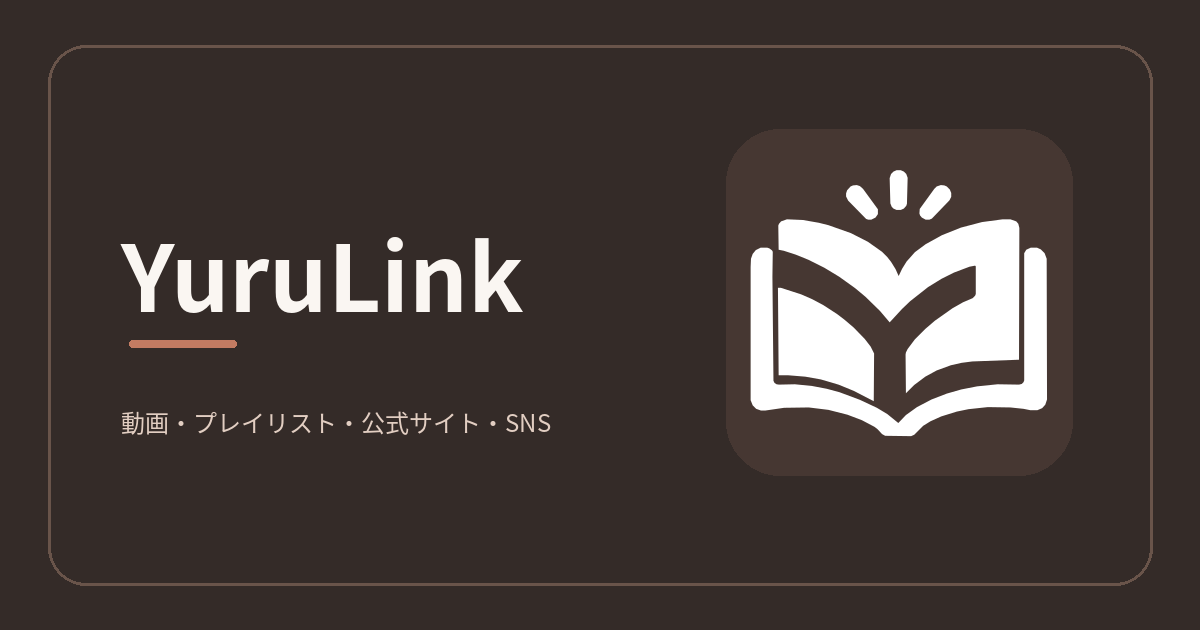
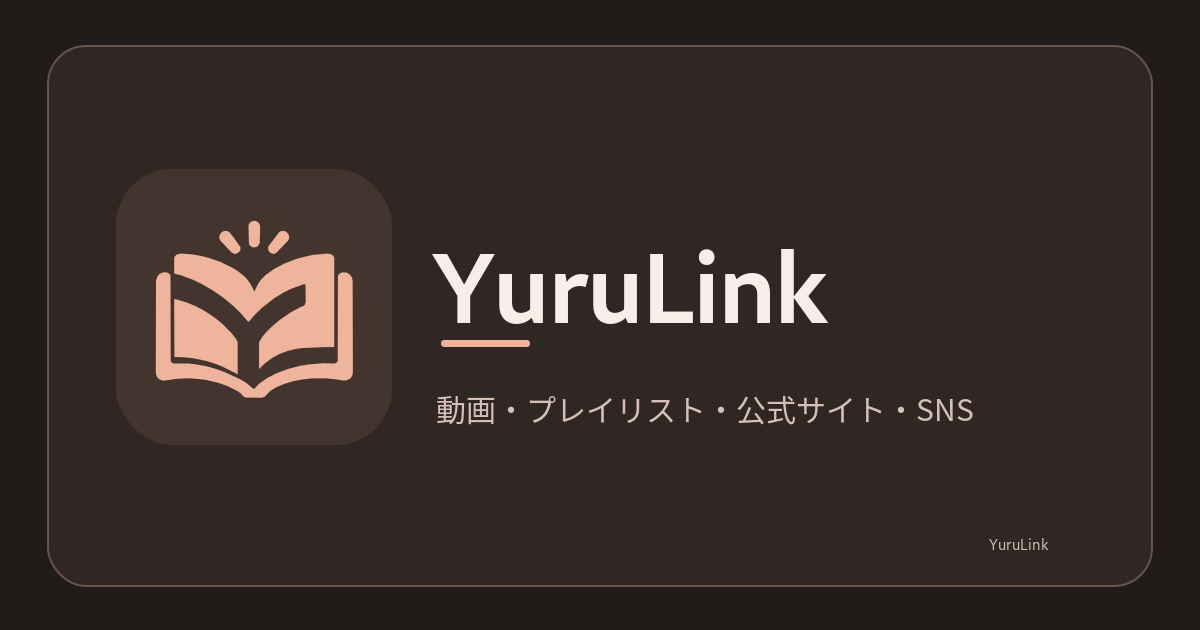
feat(brand): 承認原本を減色・再ベクター化した素材に統一し旧画像を退避

diff --git a/layouts/partials/head/meta.html b/layouts/partials/head/meta.html
@@ -11,7 +11,7 @@
 <meta name="twitter:card" content="summary_large_image">
 
 {{/* アイコンとOGPは採用シンボルに統一。OGP本文はHugo設定で切替可能。 */}}
-<link rel="icon" type="image/svg+xml" href="{{ "brand/yurulink-symbol-approved.svg" | relURL }}">
+<link rel="icon" type="image/svg+xml" href="{{ "brand/yurulink-symbol-master.svg" | relURL }}">
 <link rel="icon" type="image/png" sizes="32x32" href="{{ "favicon-32.png" | relURL }}">
 <link rel="apple-touch-icon" sizes="180x180" href="{{ "apple-touch-icon.png" | relURL }}">
 {{- $ogImage := .Site.Params.og_image | default "ogp/yurulink-light.png" -}}

diff --git a/docs/brand-v2-vector-assets.md b/docs/brand-v2-vector-assets.md
@@ -1,0 +1,11 @@
+# YuruLink v2 減色・ベクター化ブランド資産（2026-11-19）
+原本：Google Drive YuruLink_Assets/02-selected/YuruLink-symbol-approved-reference.jpg（ID: 145ljbyXFFfWL6cW2KXTnUT7_uhKGrVSC）。JPEGは変更しない。
+
+## 生成仕様
+- 元JPEGをHSV彩度でマスクし、彩度が高い6つの連結領域を抽出。輪郭座標をSVGへ変換し、シンボルの輪郭と余白を保持した。再描画AIは使わない。
+- シンボルはベタ色 #A35B46、背景は透明。PNG/faviconsは同一SVGからのラスター化。中間調やJPEG圧縮由来の色揺らぎは持ち込まない。
+- OGPはSVGマスター、HTML/SVGテキスト、意味のある背景/装飾を分離したデザインから淡色・濃色PNGを生成。OGP採用はユーザーの最終デザイン確認前のPreview暫定値。
+- 背景パレットは #FBF9F6 / #342B28、色差が機能上必要なライト/ダークには別色を許容。余分なロゴ固有色を増やさない。
+- 新マスター static/brand/yurulink-symbol-master.svg 。Hero 1600x900、Forms 1600x400、OGP 1200x630、favicon32、Touch180、透過1024を各役割のパスに格納。
+- 旧トレース、透過PNG、OGP、faviconは docs/archive/brand-pre-v2/ に退避。static 配下には古い素材を残さない。データの正本はGoogle Driveの原本JPEGと新ベクターマスター。
+- 設計検証：曲線の手動清書や商標調査を完了したという意味ではない。縮小視認性とPreviewで実際の描画を確認し、Production反映は別途承認する。
